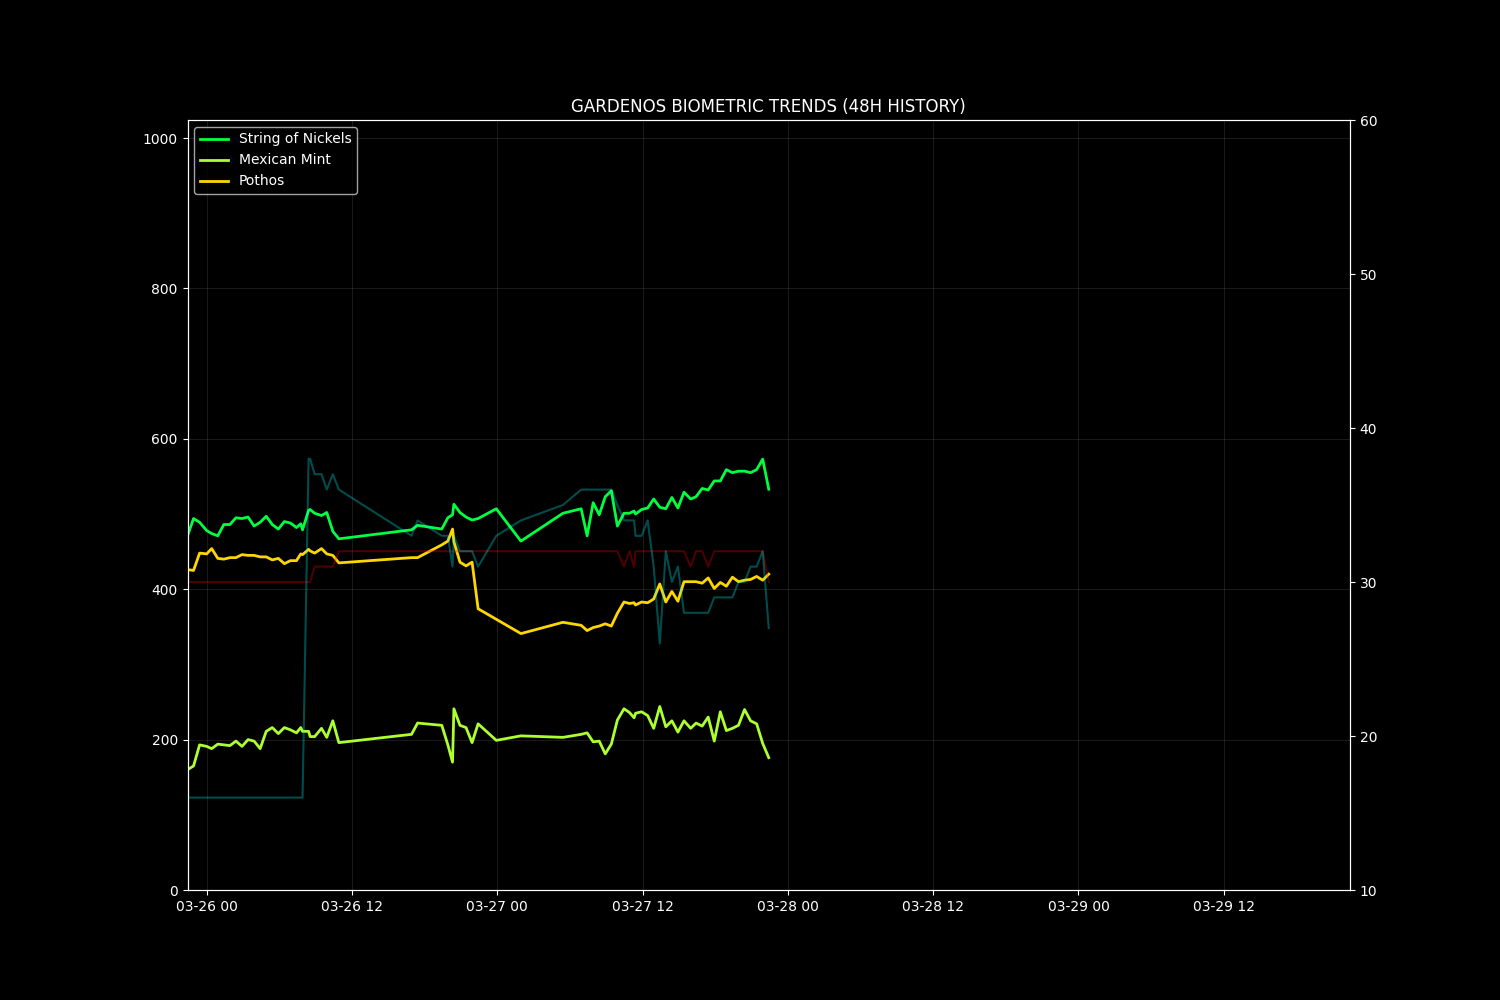
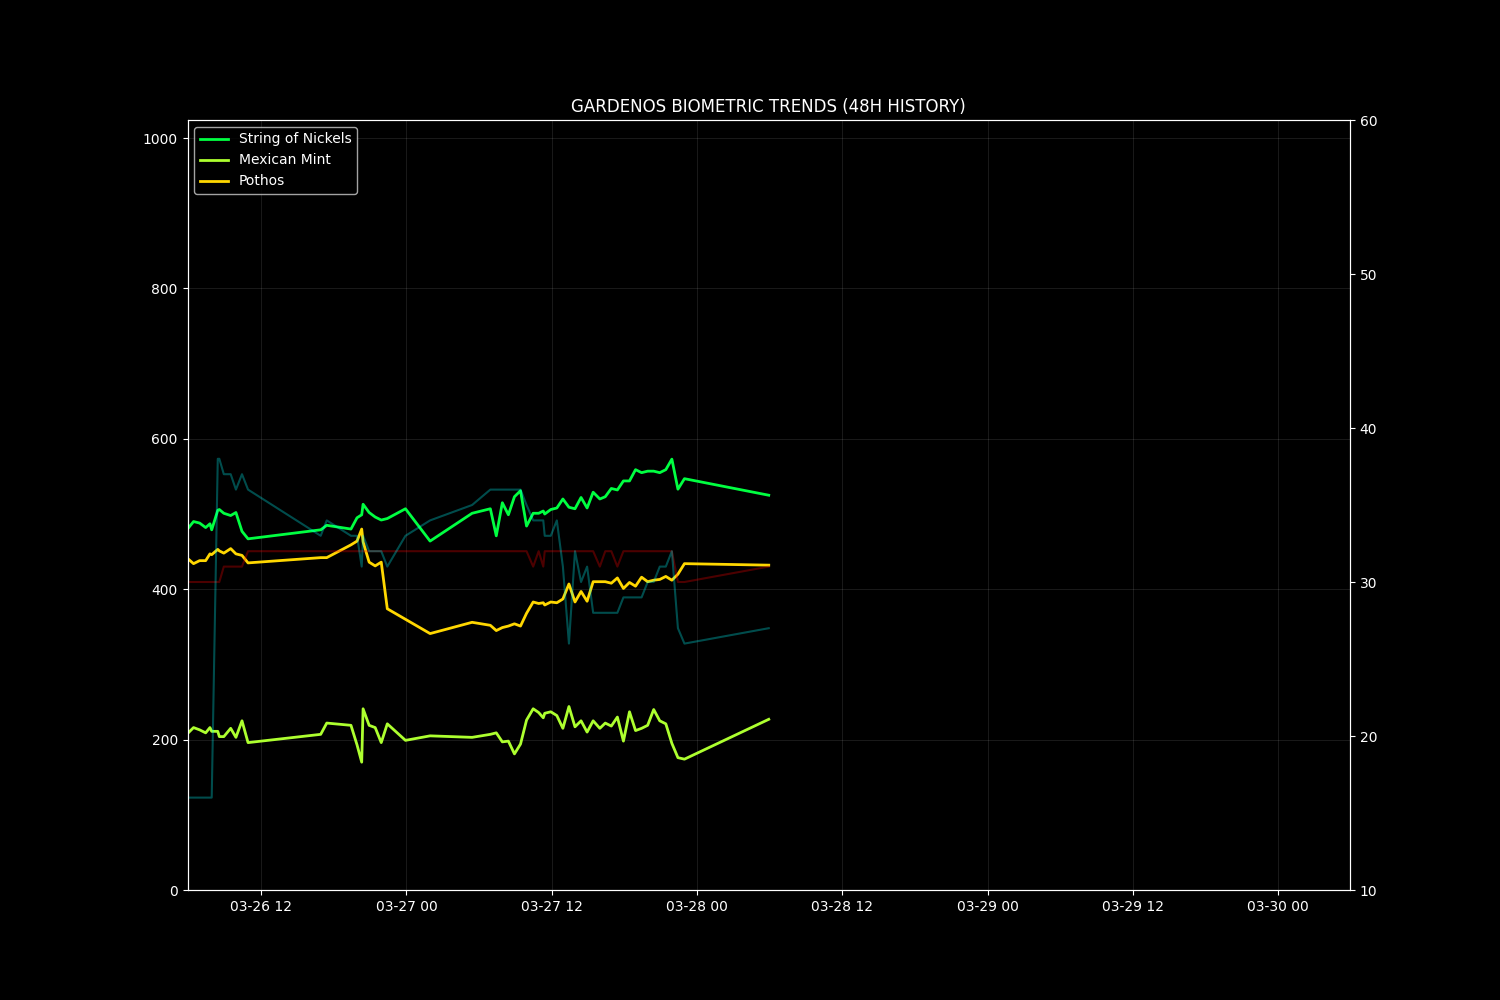
GardenOS Sync: 2026-03-28 06:35:02

diff --git a/logs/vision_ledger.md b/logs/vision_ledger.md
@@ -43,3 +43,26 @@
 **The Warden's Decision**:
 - Verdict: All plants show turgid, healthy moisture levels far above dry thresholds. However, VPD remains in EXTREME range (3.281 kPa) indicating significant transpiration stress despite adequate soil moisture.
 - Action: Light misting of foliage advised to raise immediate leaf-surface humidity and alleviate VPD stress. Do not water soil as moisture is abundant. Monitor for any leaf edge curling or tip burn in next cycle.
+
+---
+
+## WARDEN REPORT - 2026-03-28 06:13
+
+**Vitality Pulse**:
+- p1: 🟢 Turgid (55.2% moisture, above 15% threshold) - Based on latest telemetry (547.0 raw value)
+- p2: 🟢 Turgid (68.4% moisture, above 20% threshold) - Based on latest telemetry (174.0 raw value) 
+- p3: 🟢 Turgid (68.4% moisture, above 20% threshold) - Based on latest telemetry (434.0 raw value)
+- p4: 🟢 Turgid (inferred from shared sensor with p2, 68.4% moisture, above 30% threshold)
+
+**The Biome Scan**:
+- White Rabbit figurine: White ceramic figurine, approximately 50mm height, oriented upright facing slightly left, positioned near p3 pot as scale anchor. No visible damage or displacement observed.
+- Non-plant findings: Sensor wires appear secure and properly insulated, no visible corrosion or wear. Desk surface shows normal dryness consistent with indoor climate. Camera LED emitting persistent cool-spectrum fill light as designed. No foreign debris, pests, or unusual objects detected in the growing area.
+
+**Weather Alignment**:
+- Indoor microclimate: Latest telemetry shows 30.0°C temperature, 26.0% humidity, VPD extreme at 3.14 kPa (Section 3). This confirms the actively maintained microclimate described in Section 1.B (Thermal Ceiling 26°C when AC active, plus thermal gain from solar radiation).
+- Outdoor forecast (Section 5, as referenced in observer_context): scattered clouds, 32.01°C, 62% humidity.
+- Divergence explanation: Indoor humidity (26.0%) is approximately 58% lower than outdoor forecast (62%) due to the combined effects of active AC dehumidification (maintaining 26°C thermal ceiling) and high air exchange from two ceiling fans (2m above, 1m lateral), creating the anticipated indoor-outdoor humidity differential predicted in Section 2.E ("Expect indoor humidity to be 30-40% lower than 'Misty' outdoor forecasts due to AC dehumidification"). The observed 58% divergence exceeds the baseline prediction, likely due to peak solar thermal gain period (12:00-15:00) having recently concluded, driving additional moisture extraction from the indoor air.
+
+**The Warden's Decision**:
+- Verdict: All vegetation remains in turgid, healthy state with moisture levels comfortably above species-specific dry thresholds. However, VPD persists in EXTREME range (3.14 kPa, Section 2) indicating significant ongoing transpiration stress despite adequate root-zone moisture. This VPD level represents a slight improvement from previous cycles (3.281 kPa → 3.14 kPa) suggesting possible microclimate stabilization.
+- Action: Continue monitoring. No immediate irrigation or misting required as soil moisture is sufficient and VPD shows improving trend. Maintain visual vigilance for any signs of leaf edge crisping or stomatal stress in next observation cycle. The biome remains within expected operational parameters for an AC-dehumidified indoor desk-top garden in Chennai climate.

diff --git a/data/observer_context.md b/data/observer_context.md
@@ -1,5 +1,5 @@
 # 📝 Project SILICA: Garden Observer Context
-**Generated:** 2026-03-27 21:58:01
+**Generated:** 2026-03-27 22:58:01
 
 ## 🏛 1. WORLD MODEL CONSTRAINTS (The Indoor Truth)
 (The Biome)
@@ -28,16 +28,14 @@
  - **VPD Divergence**: Expect indoor humidity to be 30-40% lower than "Misty" outdoor forecasts due to AC dehumidification.
 
 ## 🧠 2. SEMANTIC FACT SYNTHESIS (The Warden's Logic)
-- **VPD State**: EXTREME (Critical Stress) at 3.233 kPa.
+- **VPD State**: EXTREME (Critical Stress) at 3.14 kPa.
 - **Dry-down**: p1 is drying at a rate of 4.3% per interval.
-- **Care Detected**: Sudden moisture spike in p2 (+6.9%). Likely misting or watering.
-- **Divergence**: Indoor humidity (32.0%) is significantly lower than Outdoor (62%). Confirming AC-clamped microclimate.
+- **Dry-down**: p3 is drying at a rate of 4.0% per interval.
+- **Divergence**: Indoor humidity (26.0%) is significantly lower than Outdoor (62%). Confirming AC-clamped microclimate.
 
 ## 🌡 3. RECENT TELEMETRY (Verifier Data)
 ```csv
 timestamp,temp,hum,light,p1,p2,p3
-2026-03-27 16:25:29,32.0,28.0,877,523.0,222.0,410.0
-2026-03-27 16:55:28,32.0,28.0,825,534.0,218.0,408.0
 2026-03-27 17:25:29,31.0,28.0,850,532.0,230.0,415.0
 2026-03-27 17:55:28,32.0,29.0,881,544.0,198.0,401.0
 2026-03-27 18:25:28,32.0,29.0,866,544.0,237.0,409.0
@@ -48,14 +46,14 @@ timestamp,temp,hum,light,p1,p2,p3
 2026-03-27 20:55:28,32.0,31.0,869,555.0,225.0,413.0
 2026-03-27 21:25:28,32.0,31.0,866,559.0,221.0,417.0
 2026-03-27 21:55:28,32.0,32.0,869,573.0,195.0,412.0
+2026-03-27 22:25:28,30.0,27.0,870,533.0,176.0,420.0
+2026-03-27 22:57:51,30.0,26.0,914,547.0,174.0,434.0
 
 ```
 
 ## 📊 4. COMPUTED METRICS (Verifier Data)
 ```csv
 timestamp,vpd,p1_pct,p1_slope,p2_pct,p2_slope,p3_pct,p3_slope,p4_pct,p4_slope,p5_pct,p5_slope,p6_pct,p6_slope,p1_is_dry,p2_is_dry,p3_is_dry
-2026-03-27 16:25:29,3.423,62.6,,92.7,,75.2,,,,,,,,False,False,False
-2026-03-27 16:55:28,3.423,59.2,,94.4,,75.8,,,,,,,,False,False,False
 2026-03-27 17:25:29,3.235,59.8,,89.3,,73.8,,,,,,,,False,False,False
 2026-03-27 17:55:28,3.376,56.1,,100.0,,77.8,,,,,,,,False,False,False
 2026-03-27 18:25:28,3.376,56.1,,86.3,,75.5,,,,,,,,False,False,False
@@ -66,6 +64,8 @@ timestamp,vpd,p1_pct,p1_slope,p2_pct,p2_slope,p3_pct,p3_slope,p4_pct,p4_slope,p5
 2026-03-27 20:55:28,3.281,52.8,,91.4,,74.4,,,,,,,,False,False,False
 2026-03-27 21:25:28,3.281,51.5,,93.1,,73.2,,,,,,,,False,False,False
 2026-03-27 21:55:28,3.233,47.2,,100.0,,74.6,,,,,,,,False,False,False
+2026-03-27 22:25:28,3.097,59.5,,100.0,,72.4,,,,,,,,False,False,False
+2026-03-27 22:57:51,3.14,55.2,,100.0,,68.4,,,,,,,,False,False,False
 
 ```
 
